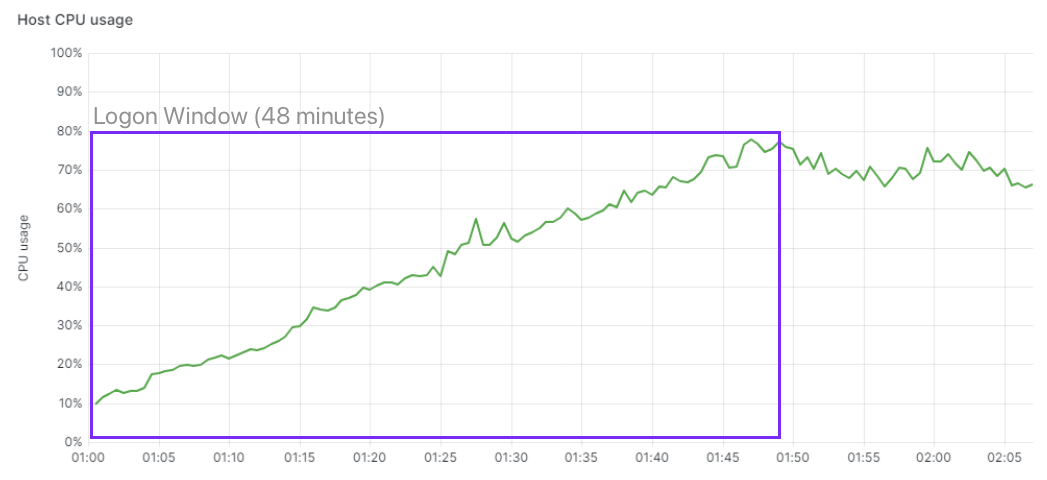
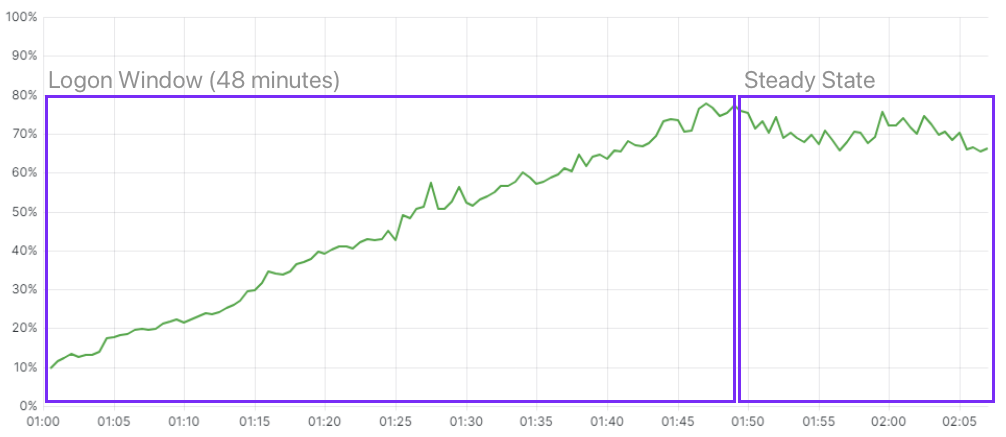
Initial Update

diff --git a/documentation/BP-XXXX-EUC Performance benchmarking best practices/BP-XXXX/BP-XXXX.md b/documentation/BP-XXXX-EUC Performance benchmarking best practices/BP-XXXX/BP-XXXX.md
@@ -20,26 +20,7 @@ This technote is part of the Nutanix Solutions Library and provides an overview 
 
 ## Purpose
 
-This document covers the following subject areas:
-
-- Why Run Performance Benchmark Tests for EUC?
-- Benchmarking Tools
-- Consistency
-- Benchmarking Metrics
-- Setting Up Your Environment for Consistent Benchmark Testing
-  - Master Images
-  - Reboot Before Testing
-  - Clients (Launchers)
-  - Logon Window
-  - BIOS Settings / C-States
-  - Persistent vs Non-Persistent
-  - Local vs File vs Container Profiles
-  - Optimizations
-- Benchmark Examples
-  - Non Optimized
-  - Wait Time
-  - With vs Without Security Agents or Virus Protection
-- Conclusion
+This document covers End User Computing benchmarking guidelines and best practices.
 
 ## Document Version History
 
@@ -55,7 +36,7 @@ Nutanix designed its software to give customers running workloads in a hybrid cl
 
 Nutanix AOS can withstand hardware failures and software glitches and ensures that application availability and performance are never compromised. Combining features like native rack awareness with public cloud partition placement groups, Nutanix operates freely in a dynamic hybrid multicloud environment.
 
-Nutanix's software will scale linearly allowing us to baseline a platform on a single node then scale that out to 2, 4, 6, 8, and 16 nodes to demonstrate no degradation in performance whilst adding more compute. 
+Nutanix's software will scale linearly allowing us to baseline a platform then scale that out by adding nodes to demonstrate no degradation in performance whilst adding more compute. 
 
 # Why Run Performance Benchmark Tests for EUC?
 
@@ -87,7 +68,8 @@ Below are some examples of the high level benchmarking software categories.
 
 | **Category** | **Description** | 
 | :--- | :--- | 
-| Workload Generation | Simulate user workloads on the endpoints being tested | 
+| Workload Simulator | Software to simulate user workloads on the endpoints being tested | 
+| Broker (optional) | The desktop broker platform used for delivery | 
 | Image Deployment | Operating System and application deployment |
 | Automation | Automation of the test execution |
 | Data Collection | Ability to collect existing and additional test data | 
@@ -107,6 +89,8 @@ If the logon time is inconsistent each time the user logs on they will eventuall
 In an EUC Benchmark test, you should see consistent logon times along with consistent application start and operation times. If the average logon time for the first 10 users is 20 seconds, then you should see a similar logon time for the last 10 users of the benchmark test.
 
 <!---
+James - if you can think how to re-word this that would be ace :)
+
 There are two ways to look at the results of the user experience metrics. 
 
 If you want to know at what point it's not realistic to add more users to the system (what is the maximum number of sessions for this system with this workload), you look at the difference in the numbers between the first and last users. If the logon time for the first 10 users is on average 20 seconds, you will see that these logon times start to increase gradually while more users are logged on to the system. At a certain point, the load on the system will reach a point where the logon time increases progressively. Just before that point is the point where you should not load more users. 
@@ -146,21 +130,21 @@ The below are typical metrics required from a Nutanix host to ensure it is perfo
 | **Metric** | **Description** | **Good Result** |
 | :--- | :--- | :--- |
 | CPU usage | The current and average CPU usage | < 85% during steady state |
+| Average CPU ready time | The CPU ready time | Less than 2% |
 | Memory usage | The host memory usage |  Irrelevant, as we do not recommend to over commit memory |
 | Storage controller IO | The host read, write IO  |  A typical read/write ratio for EUC workloads during steady state should be 20-30% reads / 70-80% writes |
 | Storage controller latency | The Storage Controller Latency |  < 5ms |
 
 ### Virtual Machine Metrics
 
-The below are typical metrics required from the Virtual Machine to ensure it is performing correctly.
+The below are typical metrics required from the Virtual Machine to ensure it is performing correctly. Good results with these metrics will largely depend on the type of workload you are testing, and acceptable levels should be agreed prior to running the benchmark.
 
-| **Metric** | **Description** | **Good Result** |
-| :--- | :--- | :--- |
-| CPU usage | The current and average CPU usage  | X |
-| CPU ready time | The CPU ready time | X |
-| Memory usage | The memory usage  | X |
-| Display protocol CPU usage | The display protocol current and average CPU usage  | X |
-| Display protocol Frames per Second | The display protocol frames per second | X |
+| **Metric** | **Description** | 
+| :--- | :--- | 
+| CPU usage | The current and average CPU usage | 
+| Memory usage | The memory usage  | 
+| Display protocol CPU usage | The display protocol current and average CPU usage  | 
+| Display protocol Frames per Second | The display protocol frames per second | 
 
 ## User Experience metrics
 
@@ -179,13 +163,13 @@ The below are typical metrics required to measure the login times.
 
 ### Application Performance Metrics
 
-The below are typical metrics required to measure application performance during a test
+The below are typical metrics required to measure application performance during a test. Good results with these metrics will largely depend on the type of workload you are testing, and acceptable levels should be agreed prior to running the benchmark.
 
-| **Metric** | **Description** | **Good Result** |
-| :--- | :--- | :--- |
-| Application start times | The time taken to open up various applications  | X |
-| Application open file times | The time taken to open a file | X |
-| Application save file times | The time to save a file | X |
+| **Metric** | **Description** | 
+| :--- | :--- | 
+| Application start times | The time taken to open up various applications | 
+| Application open file times | The time taken to open a file | 
+| Application save file times | The time to save a file |
 
 # Setting Up Your Environment for Consistent Benchmark Testing
 
@@ -197,15 +181,15 @@ The master image is a critical step you will undertake when setting up your envi
 
 Consider the steps that are normally undertaken to build an EUC Master Image:
 
-- Define the Virtual Machine Specifications.
-- Install the Operating System.
-- Install Additional Software.
-- Optimize the Image.
+- Define the virtual machine specifications.
+- Install the operating system.
+- Install additional software.
+- Optimize the image.
 - Snapshot the image.
 
 ![This image shows the the process required to create a master image and the steps required to do so.](../images/BP-XXXX_image03.png "Master Image Creation")
 
-If this was only being done once, then a manual approach may be sufficient, however as you will be testing various hardware, software and configuration changes there is a considerable chance that something will be done differently during image creation. Whilst that not seem a huge problem, a single configuration difference can have a huge impact on the test and therefore the numbers you are seeing as a result of the test run.
+If this was only being done once, then a manual approach may be sufficient, however as you will be testing various hardware, software, and configuration changes there is a considerable chance that something will be done differently during image creation. Whilst that may not seem a huge problem, a single configuration difference can have a huge impact on the test and therefore the numbers you will see as a result of the test run.
 
 Key things to consider when building a master image are:
 
@@ -230,7 +214,7 @@ There are two methods of initiating a user session on the target VMs.
 - Direct to the console.
 - Via a remoting protocol.
 
-Connecting via a remoting protocol has the advantage of simulating the use of a display protocol which has an impact on the resource usage on the target VM. If this approach is taken you need clients (physical or virtual) that connect using a display protocol and optionally a broker to distribute the session requests from the clients. 
+Connecting via a remoting protocol has the advantage of simulating the use of a display protocol which has an impact on the resource usage of the target VM. If this approach is taken you need clients (physical or virtual) that connect using a display protocol and optionally a broker to distribute the session requests from the clients. 
 
 When you use clients to initiate the sessions, it's important to configure these clients with the same specifications. Examples of these configuration options are.
 
@@ -244,7 +228,7 @@ The Logon Window is the time to login all the sessions defined withing the test 
 
 The logon phase during a benchmark test is often the most resource intensive phase. If the logon window is too short, you will most likely run into CPU contention on the system. 
 
-![This image shows the Logon Windows time definition.](../images/BP-XXXX_image04.png "Logon Window")
+![This image shows the Logon Window time definition and the steady state for Host CPU Usage.](../images/BP-XXXX_image04.png "Logon Window")
 
 In our tests, we always use a logon window of 48 minutes, no matter how many sessions we configure. The thought behind this is, if we configure more sessions to logon, the node or cluster should be able to handle more sessions as well. If a node is capable of logging on 100 sessions on 1 node in 48 minutes, a 4 node cluster of the same type should be able to log on 400 sessions in 48 minutes.
 
@@ -307,7 +291,7 @@ The profile type will have an impact on the test data and additional considerati
 
 Optimizing your profile solutions can have a huge impact on the performance baselines so be sure to pay special attention to the configuration of the profile infrastructure prior to running benchmark tests.
 
-## Optimization
+## Optimizations
 
 Operating System optimizations have a huge impact on system performance when dealing with EUC workloads. 
 
@@ -323,30 +307,18 @@ Some of these are:
 
 These are just a few examples of the many settings that can be safely disabled on a Windows Server or Windows Desktop operating system before benchmarking the platform. All these services, processes or applications use up precious CPU cycles or memory, therefore decreasing the performance and number of users we can fit onto the platform.
 
-Optimizing an image is a balancing act. We should be looking to disable everything that will not be required to get the best performance, but not be so aggressive that they render the virtual desktop useless. Some options available are:
-
-| **Vendor** | **Tool** | 
-| :--- | :--- | 
-| Citrix | Citrix Optimizer Tool | 
-| VMware | Windows OS Optimization Tool  |
-| Microsoft | (Windows) Virtual Desktop Optimization Tool | 
-
-# Benchmark examples
-
-## Not Optimized
-
-## Wait Time
-
-## With or Without Security Agents or Virus Protection?
+Optimizing an image is a balancing act. You should be looking to disable everything that will not be required to get the best performance, but not be so aggressive that they render the virtual desktop useless. There are various tools available to optimize your master images, ensure you use the tool that's most relevant for your environment.
 
 # Conclusion
-consistenct
-optimize
-workload need to represent prod
-able to compare results directly
-data retention
-compare boot storm - logon phase and steady state
+
+- Consistency is paramount when running benchmark tests for EUC. Ensuring that the test conditions are exactly the same for each configuration change is critical for obtaining accurate and reliable results.
+- Optimizing your master images can have a big impact on the test outcome and user density with non optimized images using unnecessary resource.
+- When designing your workload to test with be sure to mirror production as closely as possible to ensure the results reflect what your users will be experiencing.
+- Being able to directly compare (overlay) results is paramount. Having the ability to easily see the performance changes will ensure you know what impact the configuration changes are having in your environment.
+- Data retention needs validating. Running EUC benchmark tests can produce a lot of data, keeping this for historical reasons is a valid approach, but the dataset sizes will need to be considered.
+- When running benchmark tests be sure to compare all 3 phases of the test (boot storm, logon window and steady state) to get the best possible results.
 
 # References
+[End User Computing Performance Analysis](https://portal.nutanix.com/page/documents/solutions/details?targetId=TN-2113-Windows-10-Performance-Impact:TN-2113-Windows-10-Performance-Impact)
 
-https://portal.nutanix.com/page/documents/details?targetId=Release-Notes-BMC-BIOS:Nutanix%20BMC%20and%20BIOS%20Overview
+[Nutanix BMC and BIOS Overview](https://portal.nutanix.com/page/documents/details?targetId=Release-Notes-BMC-BIOS:Nutanix%20BMC%20and%20BIOS%20Overview)
